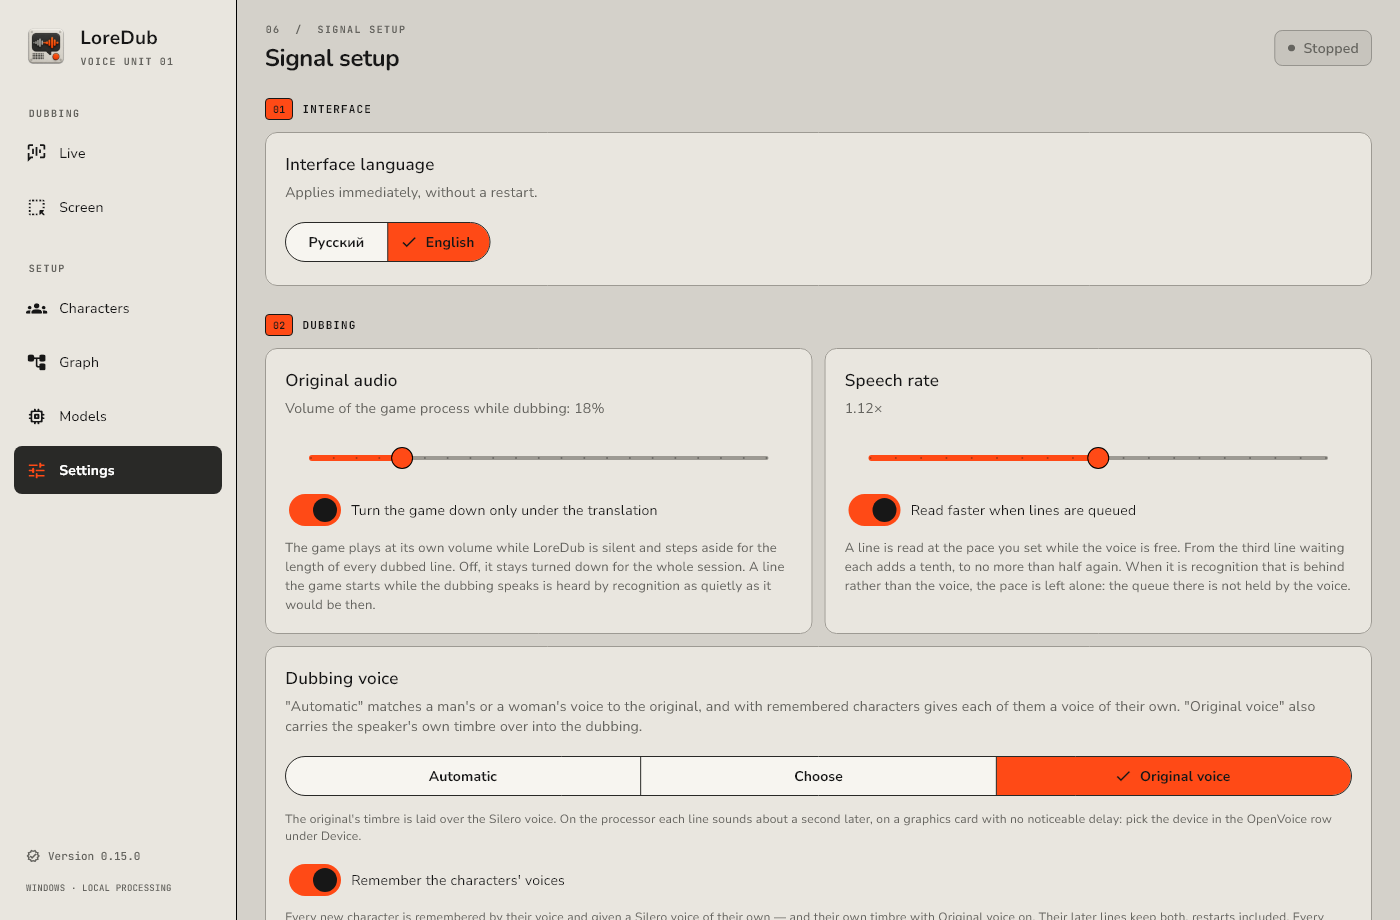
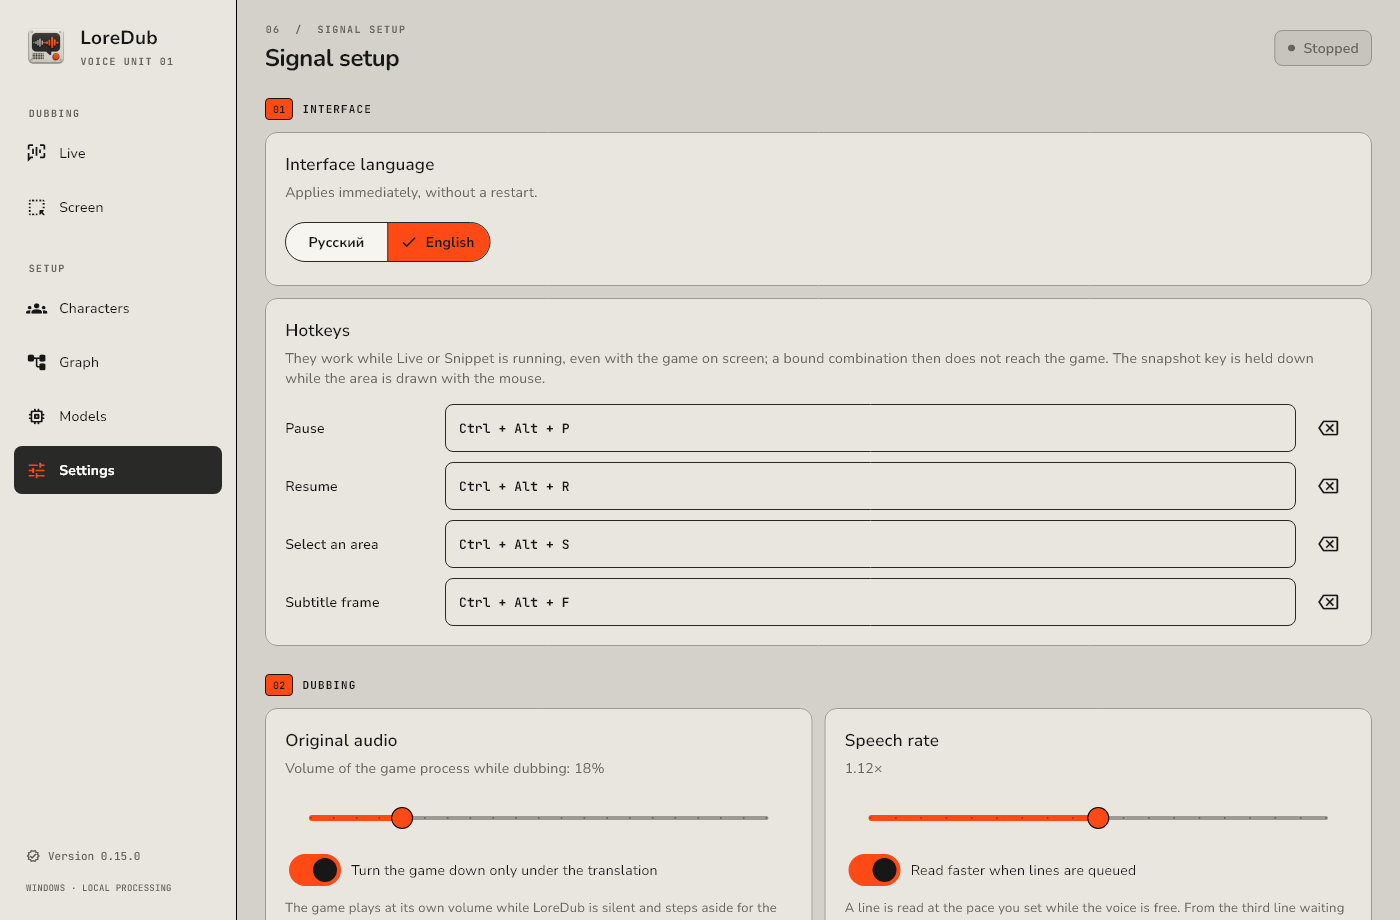
refactor: group the settings by whose question each one answers
The hotkeys sat with the hardware, and how many threads to give whisper
was a card of its own that asked the question whatever the answer already
was -- on a machine running everything on the GPU it asked anyway.

The keys go up to the interface, being the player's own way in. The
thread count goes into the card that decides where things run, and is
asked only when the answer is the processor; that card names the adapter
only under GPU, and under Automatic says neither, the table of stage by
device below it being the answer either line would have given. The third
group is "Вычисления" now, one card in it.

Changed region(s): [[0.1843, 0.3348, 0.9521, 0.6696], [0.1843, 0.7304, 0.9829, 1.0]]

diff --git a/lib/src/ui/dashboard/dashboard_view.dart b/lib/src/ui/dashboard/dashboard_view.dart
@@ -3887,9 +3887,9 @@ class _SettingsPanelState extends State<_SettingsPanel> {
         const SizedBox(height: 12),
         ..._howItSounds(context, l10n, state, running: running),
         const SizedBox(height: _settingsGroupGap),
-        _ModuleLabel(number: '03', label: l10n.settingsGroupControl),
+        _ModuleLabel(number: '03', label: l10n.settingsGroupCompute),
         const SizedBox(height: 12),
-        ..._howItIsDriven(context, l10n, state, running: running),
+        _ComputeDeviceCard(cubits: cubits),
         const SizedBox(height: _settingsGroupGap),
         _FoldedHeading(
           number: '04',
@@ -3932,6 +3932,8 @@ class _SettingsPanelState extends State<_SettingsPanel> {
               cubits.settings.update(settings.copyWith(interfaceLanguage: selection.first)),
         ),
       ),
+      const SizedBox(height: 12),
+      ..._theHotkeys(context, l10n, state, running: running),
     ];
   }
 
@@ -4048,7 +4050,10 @@ class _SettingsPanelState extends State<_SettingsPanel> {
   }
 
   /// What the player drives it with, and what the machine drives it on.
-  List<Widget> _howItIsDriven(
+  /// The combinations Windows hands the application wherever the pointer
+  /// is. They are the player's own way in, so they stand with the interface
+  /// rather than beside the hardware the models run on.
+  List<Widget> _theHotkeys(
     BuildContext context,
     AppLocalizations l10n,
     SettingsState state, {
@@ -4155,27 +4160,6 @@ class _SettingsPanelState extends State<_SettingsPanel> {
           ],
         ),
       ),
-      const SizedBox(height: 12),
-      _SettingCard(
-        title: l10n.settingsPerformance,
-        subtitle: l10n.performanceNote(Platform.numberOfProcessors, defaultCpuThreads()),
-        child: DropdownButtonFormField<int>(
-          initialValue: settings.cpuThreads,
-          decoration: InputDecoration(labelText: l10n.cpuThreads),
-          items: _threadOptions(settings.cpuThreads)
-              .map((value) => DropdownMenuItem(value: value, child: Text('$value')))
-              .toList(),
-          onChanged: running
-              ? null
-              : (value) {
-                  if (value != null) {
-                    cubits.settings.update(settings.copyWith(cpuThreads: value));
-                  }
-                },
-        ),
-      ),
-      const SizedBox(height: 12),
-      _ComputeDeviceCard(cubits: cubits),
     ];
   }
 
@@ -4656,11 +4640,39 @@ class _ComputeDeviceCard extends StatelessWidget {
                 ? null
                 : (selection) => cubits.settings.selectComputeDevice(selection.first),
           ),
-          const SizedBox(height: 14),
-          Text(
-            adapter == null ? l10n.computeNoAdapter : l10n.computeAdapterDetected(adapter.name),
-            style: const TextStyle(color: LoreDubPalette.mutedInk, fontSize: 13),
-          ),
+          // What the choice leaves to say: the card a GPU run would use, or
+          // -- everything being on the processor -- how much of it to use.
+          // Automatic says neither: the table below shows where each stage
+          // ended up, which is the answer it would have given.
+          if (settings.computeDevice == ComputeDevice.gpu) ...[
+            const SizedBox(height: 14),
+            Text(
+              adapter == null ? l10n.computeNoAdapter : l10n.computeAdapterDetected(adapter.name),
+              style: const TextStyle(color: LoreDubPalette.mutedInk, fontSize: 13),
+            ),
+          ] else if (settings.computeDevice == ComputeDevice.cpu) ...[
+            const SizedBox(height: 14),
+            Text(
+              l10n.performanceNote(Platform.numberOfProcessors, defaultCpuThreads()),
+              style: const TextStyle(color: LoreDubPalette.mutedInk, fontSize: 13),
+            ),
+            const SizedBox(height: 12),
+            DropdownButtonFormField<int>(
+              key: const ValueKey('cpuThreads'),
+              initialValue: settings.cpuThreads,
+              decoration: InputDecoration(labelText: l10n.cpuThreads),
+              items: _threadOptions(settings.cpuThreads)
+                  .map((value) => DropdownMenuItem(value: value, child: Text('$value')))
+                  .toList(),
+              onChanged: running
+                  ? null
+                  : (value) {
+                      if (value != null) {
+                        cubits.settings.update(settings.copyWith(cpuThreads: value));
+                      }
+                    },
+            ),
+          ],
           const SizedBox(height: 14),
           // Stage by device: every cell says at a glance whether the stage
           // runs there, could, needs a package first, or cannot at all.

diff --git a/test/widget_test.dart b/test/widget_test.dart
@@ -893,6 +893,41 @@ void main() {
     expect(find.text('Озвучка'), findsOneWidget);
   });
 
+  testWidgets('says what the compute choice leaves to say, and nothing else', (tester) async {
+    Future<void> open(WidgetTester tester, ComputeDevice device) async {
+      final cubits = stage(
+        buildCubits(),
+        section: DashboardSection.settings,
+        settings: AppSettings(computeDevice: device),
+        models: catalogue(),
+        availability: const ComputeAvailability(
+          adapters: [GraphicsAdapter(name: 'RTX 4070', vendor: GraphicsVendor.nvidia)],
+        ),
+      );
+      await pumpDashboard(tester, cubits, const Size(1280, 1000));
+      final section = find.text('Вычислительное устройство');
+      await tester.scrollUntilVisible(section, 300, scrollable: find.byType(Scrollable).first);
+      await tester.pumpAndSettle();
+    }
+
+    // Automatic says neither: the table under it already shows where every
+    // stage ended up, which is the answer either line would have given.
+    await open(tester, ComputeDevice.auto);
+    expect(find.textContaining('RTX 4070'), findsNothing);
+    expect(find.byKey(const ValueKey('cpuThreads')), findsNothing);
+
+    await open(tester, ComputeDevice.gpu);
+    expect(find.textContaining('RTX 4070'), findsOneWidget);
+    expect(find.byKey(const ValueKey('cpuThreads')), findsNothing);
+
+    // Everything on the processor: how much of it to use is the question
+    // left, and it is asked here rather than in a card of its own.
+    await open(tester, ComputeDevice.cpu);
+    expect(find.textContaining('RTX 4070'), findsNothing);
+    expect(find.byKey(const ValueKey('cpuThreads')), findsOneWidget);
+    expect(find.textContaining('Распознавание занимает'), findsOneWidget);
+  });
+
   testWidgets('never offers speech anything but the processor', (tester) async {
     await pumpLoreDub(tester, const Size(1280, 900));
     await tester.tap(find.text('Настройки'));

diff --git a/lib/l10n/app_localizations.dart b/lib/l10n/app_localizations.dart
@@ -1461,12 +1461,6 @@ abstract class AppLocalizations {
   /// **'женский'**
   String get voiceGenderFemale;
 
-  /// No description provided for @settingsPerformance.
-  ///
-  /// In ru, this message translates to:
-  /// **'Производительность'**
-  String get settingsPerformance;
-
   /// No description provided for @performanceNote.
   ///
   /// In ru, this message translates to:
@@ -1599,11 +1593,11 @@ abstract class AppLocalizations {
   /// **'ОЗВУЧКА'**
   String get settingsGroupDubbing;
 
-  /// No description provided for @settingsGroupControl.
+  /// No description provided for @settingsGroupCompute.
   ///
   /// In ru, this message translates to:
-  /// **'КЛАВИШИ И ВЫЧИСЛЕНИЯ'**
-  String get settingsGroupControl;
+  /// **'ВЫЧИСЛЕНИЯ'**
+  String get settingsGroupCompute;
 
   /// No description provided for @settingsGroupAdvanced.
   ///

diff --git a/lib/l10n/app_localizations_ru.dart b/lib/l10n/app_localizations_ru.dart
@@ -851,9 +851,6 @@ class AppLocalizationsRu extends AppLocalizations {
   String get voiceGenderFemale => 'женский';
 
   @override
-  String get settingsPerformance => 'Производительность';
-
-  @override
   String performanceNote(int cores, int recommended) {
     return 'Распознавание занимает большую часть задержки и хорошо ускоряется потоками. Доступно ядер: $cores, рекомендуется $recommended.';
   }
@@ -925,7 +922,7 @@ class AppLocalizationsRu extends AppLocalizations {
   String get settingsGroupDubbing => 'ОЗВУЧКА';
 
   @override
-  String get settingsGroupControl => 'КЛАВИШИ И ВЫЧИСЛЕНИЯ';
+  String get settingsGroupCompute => 'ВЫЧИСЛЕНИЯ';
 
   @override
   String get settingsGroupAdvanced => 'ДОПОЛНИТЕЛЬНО';

diff --git a/lib/l10n/app_localizations_en.dart b/lib/l10n/app_localizations_en.dart
@@ -846,9 +846,6 @@ class AppLocalizationsEn extends AppLocalizations {
   String get voiceGenderFemale => 'female';
 
   @override
-  String get settingsPerformance => 'Performance';
-
-  @override
   String performanceNote(int cores, int recommended) {
     return 'Recognition takes most of the delay and scales well with threads. Cores available: $cores, recommended $recommended.';
   }
@@ -918,7 +915,7 @@ class AppLocalizationsEn extends AppLocalizations {
   String get settingsGroupDubbing => 'DUBBING';
 
   @override
-  String get settingsGroupControl => 'HOTKEYS AND COMPUTE';
+  String get settingsGroupCompute => 'COMPUTE';
 
   @override
   String get settingsGroupAdvanced => 'ADVANCED';

diff --git a/README.en.md b/README.en.md
@@ -420,13 +420,15 @@ starting over.
   <img src="docs/screenshots/settings-en.png" width="900" alt="The Settings screen">
 </p>
 
-The settings come in four groups. **Interface** holds the interface
-language (Russian or English, applied immediately). **Dubbing** holds how far the original is
-turned down while dubbing, the speech rate and the voice. **Hotkeys and
-compute** holds the hotkeys, the CPU threads and the compute device. The
-fourth, **Advanced**, is folded away until its heading is pressed: the Python
-path, the download proxy and the model directory are changed when something
-is broken, not while playing.
+The settings come in four groups. **Interface** holds the interface language
+(Russian or English, applied immediately) and the hotkeys. **Dubbing** holds
+how far the original is turned down while dubbing, the speech rate and the
+voice. **Compute** is one card: where things run. Under **GPU** it names the
+card it found, under **CPU** it asks how many threads to use, and under
+**Automatic** it says neither — the table below already shows where each
+stage ended up. The fourth, **Advanced**, is folded away until its heading is
+pressed: the Python path, the download proxy and the model directory are
+changed when something is broken, not while playing.
 
 **Turn the game down only under the translation** (on) leaves the game at its
 own volume while LoreDub is silent and steps aside for the length of every

diff --git a/CHANGELOG.md b/CHANGELOG.md
@@ -8,6 +8,10 @@
   только пока оно впереди; экран — целиком и всегда, и рамку тогда можно
   обвести где угодно. Это выход для игры, у которой обычного окна нет: процесс
   игры в этом режиме выбирать не обязательно — разве что чтобы приглушить её.
+- Настройки пересобраны: горячие клавиши поднялись к «Интерфейсу», а карточка
+  «Производительность» исчезла — число потоков теперь спрашивают там же, где
+  выбирается устройство, и только когда выбран CPU. Под GPU там названа
+  видеокарта, под «Автоматически» — ничего лишнего.
 - Правки по мелочам: кнопка «Запустить» на «Экране» встала на строку с выбором
   игры, а не посередине абзаца; в боковом списке перед «Подготовкой» стало
   просторнее; в «Сохранённых схемах» число схем теперь в оранжевой метке, а сама

diff --git a/docs/UI_DESIGN.md b/docs/UI_DESIGN.md
@@ -82,11 +82,13 @@ radius.
    (`compute_matrix.dart`).
 5. **Signal setup** is four named groups, announced by the same numbered
    module label the other screens mark their areas with: the interface
-   (language), dubbing (original volume, speech speed, voice), hotkeys and
-   compute (hotkeys, CPU budget, compute device), and a fourth folded away
-   behind its heading — the Python path, the download proxy and the model
-   directory, which are changed when something is broken rather than while
-   playing. What the pipeline reads is not among them: Live dubs the game's
+   (language and hotkeys, which are the player's own way in), dubbing
+   (original volume, speech speed, voice), compute — one card, which names
+   the adapter under GPU, asks for the thread count under CPU, and says
+   neither under Automatic, the table of stage by device being the answer
+   either line would have given — and a fourth folded away behind its
+   heading — the Python path, the download proxy and the model directory,
+   which are changed when something is broken rather than while playing. What the pipeline reads is not among them: Live dubs the game's
    sound and the Screen page reads the screen, and each carries the controls
    for its own work. Settings are disabled while the pipeline is active.
 
